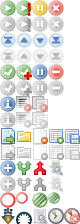
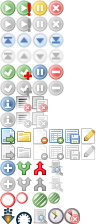
Add file rename action (#2169)

diff --git a/chrome/content/dta/manager/tree.js b/chrome/content/dta/manager/tree.js
@@ -53,7 +53,11 @@ const Tree = {
 
 		let dtree = $('downloadList');
 		dtree.addEventListener('dragstart', function(event) tp.onDragStart(event), false);
-		dtree.addEventListener('dblclick', function() FileHandling.openFile(), false);
+		dtree.addEventListener('dblclick', function(event) {
+			event.preventDefault();
+			event.stopPropagation();
+			FileHandling.openFile();
+		}, false);
 
 		$("matcher").addEventListener("command", function(event) tp.handleMatcherPopup(event), true);
 
@@ -478,12 +482,59 @@ const Tree = {
 		}
 		return '';
 	},
+	setCellText: function(idx, col, text) {
+		text = Utils.getUsableFileName(text);
+		if (col.index != 0 || text == "") {
+			return;
+		}
+		const d = this._filtered[idx];
+		const from = d.destinationLocalFile;
+		const to = from.clone();
+		to.leafName = text;
+		if (!d.is(COMPLETE)) {
+			d.fileName = text;
+			log(LOG_DEBUG, "reset");
+			return; // complete logic will do this
+		}
+		if (from.leafName === to.leafName) {
+			log(LOG_DEBUG, "nothing");
+			return; // nothing to do
+		}
+		if (!from.exists()) {
+			d.fileName = text;
+			log(LOG_DEBUG, "gone");
+			return; // gone already
+		}
+		if (to.exists()) {
+			Prompts.alert(window, _("rename.title"), _("rename.alreadythere", [from.leafName, to.path]));
+			log(LOG_DEBUG, "exists");
+			return;
+		}
+
+		log(LOG_DEBUG, "move " + from.path + " to " + to.path);
+		// need to move
+		asyncMoveFile(from, to, Prefs.permissions, function(ex) {
+			try {
+				log(LOG_DEBUG, "move complete" + from.path + " to " + to.path, ex);
+				if (ex) {
+					throw ex;
+				}
+				d.fileName = text;
+			}
+			catch (iex) {
+				log(LOG_DEBUG, "move failed " + from.path + " to " + to.path, iex);
+				Prompts.alert(window, _("rename.title"), _("rename.failedtomove", [from.path, to.path]));
+			}
+		});
+	},
 	isSorted: function() true,
 	isContainer: function(idx) false,
 	isContainerOpen: function(idx) false,
 	isContainerEmpty: function(idx) false,
 	isSeparator: function(idx) false,
-	isEditable: function(idx) true,
+	isEditable: function(row, col) {
+		return (col.index == 0);
+	},
 
 	// will grab the "icon" for a cell.
 	getImageSrc: function(idx, col) {},
@@ -1264,7 +1315,7 @@ const Tree = {
 	],
 	_refreshTools_items: [
 		{items: ['cmdRemoveSelected', 'cmdExport', 'cmdGetInfo', 'perDownloadSpeedLimit'], f: function(d) !!d.count},
-		{items: ['cmdMirrors', 'cmdAddLimits'], f: function(d) d.count == 1},
+		{items: ['cmdMirrors', 'cmdAddLimits', 'cmdRename'], f: function(d) d.count == 1},
 		{items: ['cmdAddChunk', 'cmdRemoveChunk', 'cmdForceStart'], f: function(d) d.isOf(QUEUED | RUNNING | PAUSED | CANCELED)},
 	],
 	_refreshTools_init: function() {
@@ -1658,6 +1709,25 @@ const Tree = {
 	changePerDownloadSpeedLimit: function() {
 		let limit = $('perDownloadSpeedLimitList').limit;
 		this.updateSelected(this._changePerDownloadSpeedLimit_item.bind(null, limit));
+	},
+	startRename: function() {
+		try {
+			let ci = {value: -1};
+			this.selection.getRangeAt(0, ci, {});
+			if (ci.value < 0 || ci.value >= this.rowCount) {
+				return;
+			}
+			this.elem.setAttribute("editable", true);
+			try {
+				this.elem.startEditing(ci.value, this.box.columns.getFirstColumn());
+			}
+			finally {
+				this.elem.removeAttribute("editable");
+			}
+		}
+		catch (ex) {
+			log(LOG_ERROR, "Cannot rename", ex);
+		}
 	}
 };
 requireJoined(Tree, "manager/matcher");

diff --git a/chrome/skin/manager/style.css b/chrome/skin/manager/style.css
@@ -443,6 +443,13 @@ treechildren::-moz-tree-cell-text(private) {
 	-moz-image-region: rect(144px,80px,160px,64px);
 }
 
+.rename {
+	-moz-image-region: rect(128px,96px,144px,80px);
+}
+.rename[disabled="true"] {
+	-moz-image-region: rect(144px,96px,160px,80px);
+}
+
 .force {
 	-moz-image-region: rect(0px,32px,16px,16px);
 }
@@ -634,6 +641,13 @@ treechildren::-moz-tree-cell-text(private) {
 	}
 	.export[disabled="true"] {
 		-moz-image-region: rect(288px,160px,320px,128px);
+	}
+
+	.rename {
+		-moz-image-region: rect(256px,192px,288px,160px);
+	}
+	.rename[disabled="true"] {
+		-moz-image-region: rect(288px,192px,320px,160px);
 	}
 
 	.force {

diff --git a/chrome/content/dta/manager/manager.js b/chrome/content/dta/manager/manager.js
@@ -2049,6 +2049,7 @@ QueueItem.prototype = {
 		this.setState(COMPLETE);
 		this.status = TextCache_COMPLETE;
 		this.visitors = new VisitorManager();
+		this.compression = null;
 	},
 	get maskURL() this.urlManager.usableURL,
 	get maskURLPath() this.urlManager.usableURLPath,
